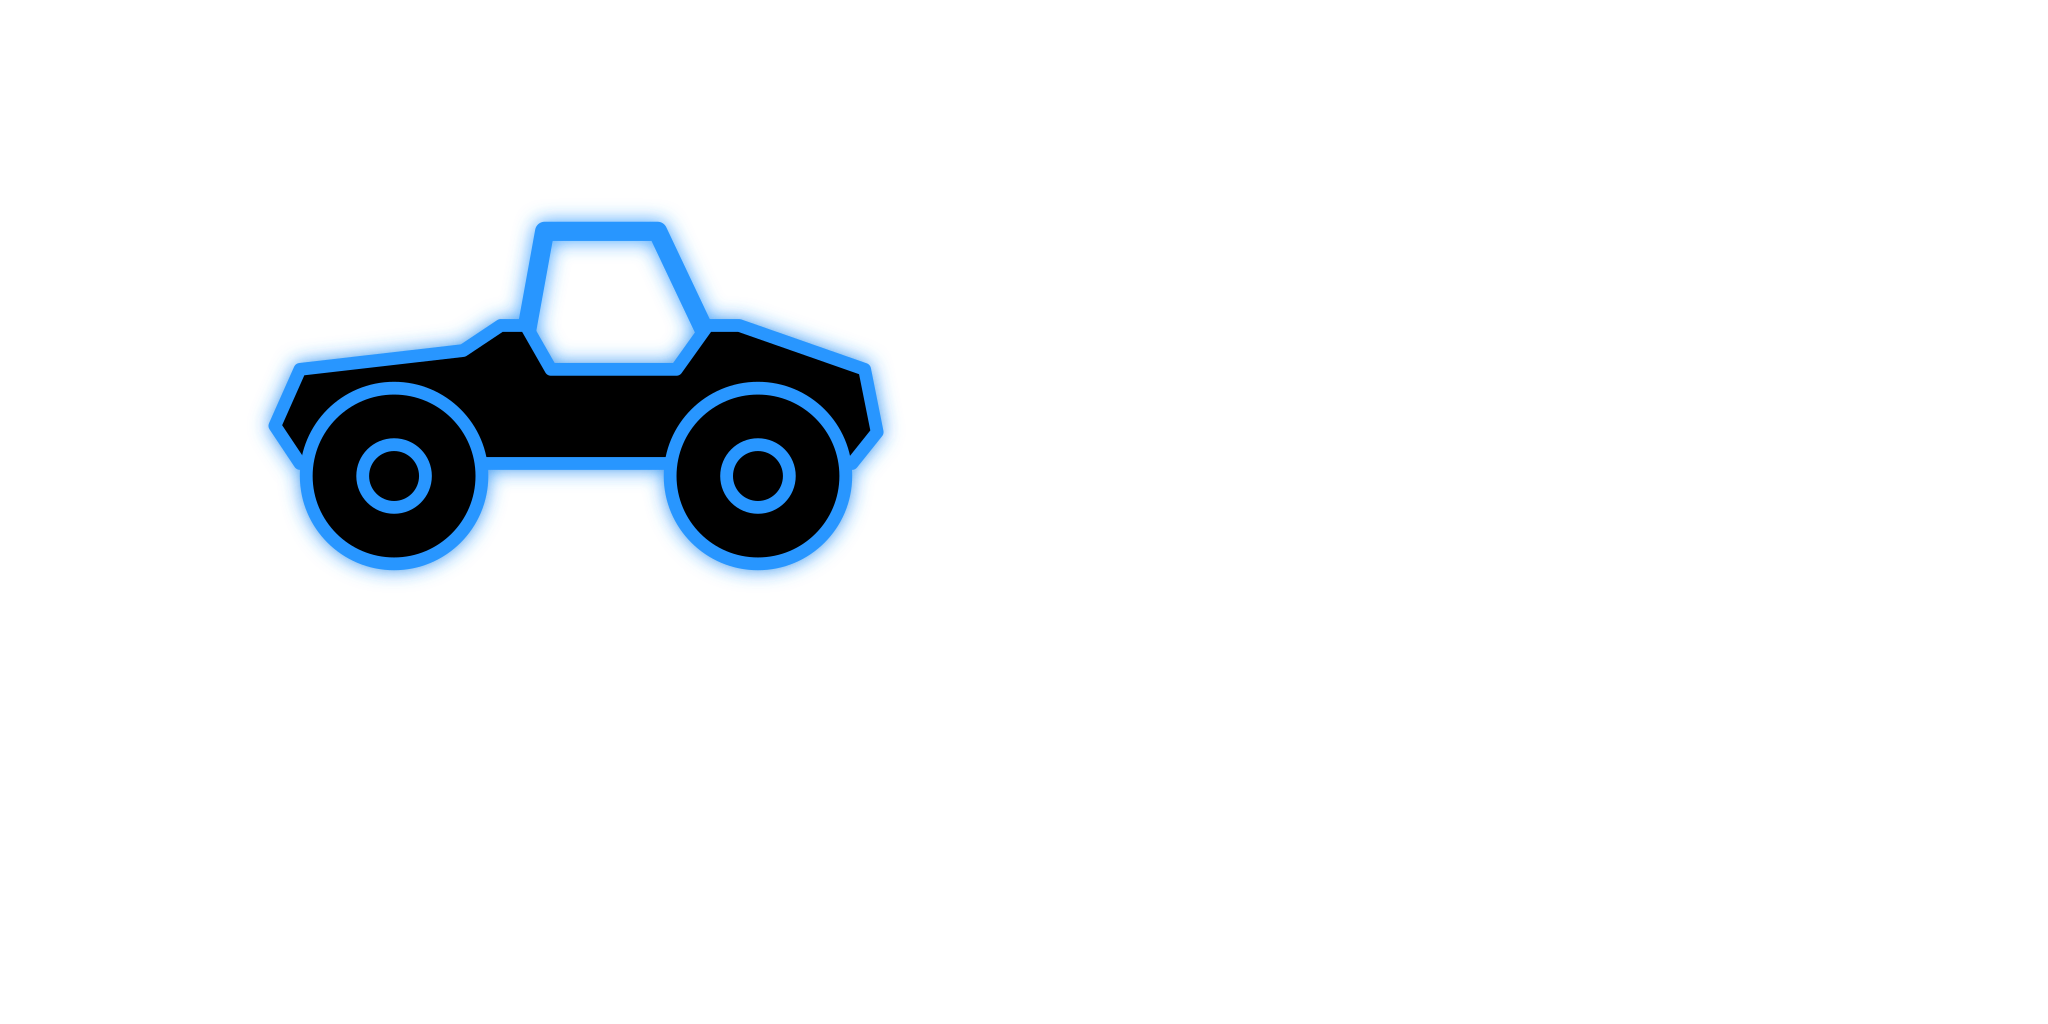
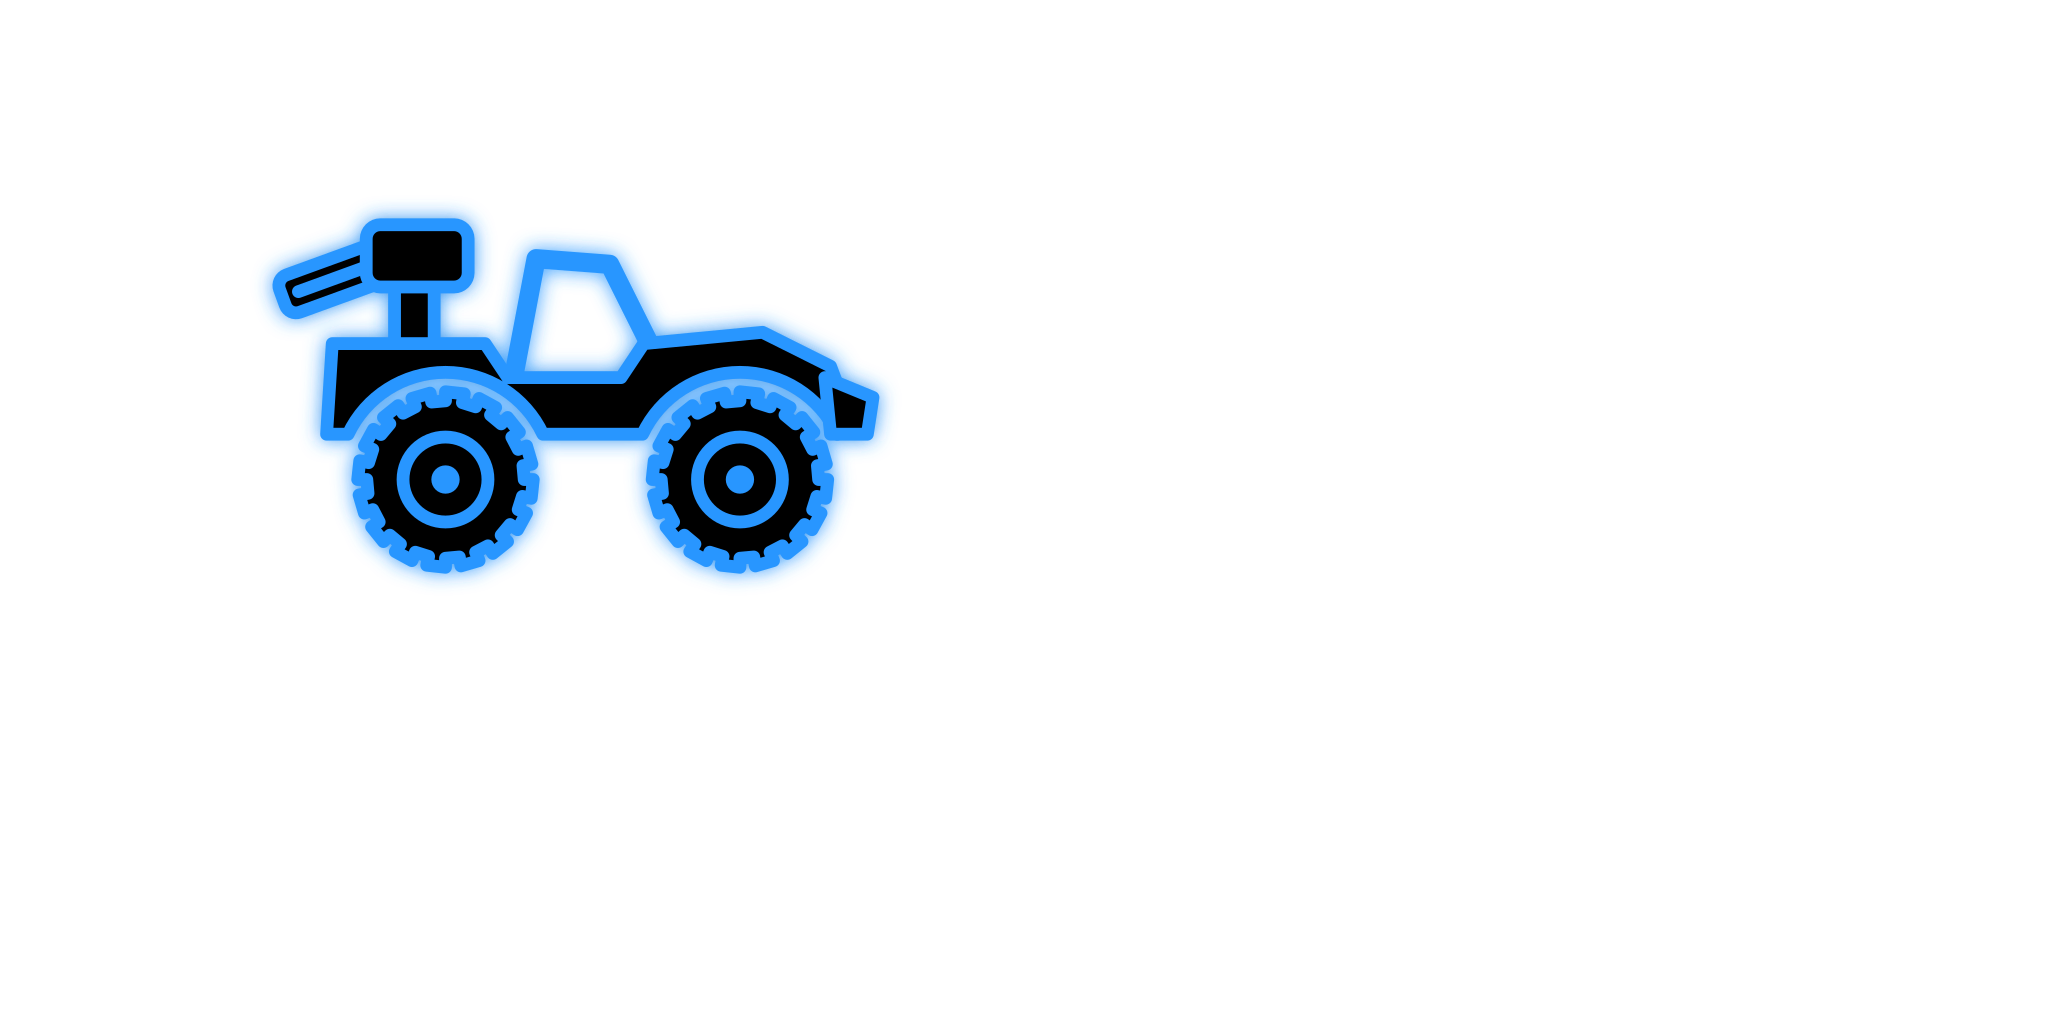
Menu pictures: a Warthog for VEHICLE OPTIONS, CTF flags for TEAMPLAY OPTIONS
- VEHICLE OPTIONS is now a Halo CE Warthog from the side, drawn here, not traced. Owner: the buggy "doesn't look
  close to a halo warthog". It has:
  - big knobby tyres in deep wheel arches;
  - a long low hood dropping to an angular nose and its forward bumper;
  - the open cab under its roll cage;
  - the chain gun on its post on the rear deck, its barrel pointing back.
- TEAMPLAY OPTIONS shows a red and a blue CTF flag, crossed: a pole and a rectangular banner in each team's own red
  and blue, a knob on top. They replace the two shields (owner: they "don't really do it for me").
- New style classes red-fill and blue-fill carry the team colours, so every SVG's style block changes; the other
  pictures render the same.

Changed region(s): [[0.125, 0.1875, 0.4375, 0.5625]]

diff --git a/tools/ae_menu_pictures.py b/tools/ae_menu_pictures.py
@@ -142,11 +142,30 @@ def _split(name, cells, frame=(4, 8, 92, 72), k=0.5, top=7.2):
     return shapes + ["</g>", f'<rect x="{x}" y="{y}" width="{w}" height="{h}" rx="3" class="e"/>']
 
 
-def _shield(cx, cy, w, h, cls):
-    outline = (f"M{cx},{cy - h / 2} L{cx + w / 2},{cy - h / 2 + h * 0.18} L{cx + w / 2},{cy + h * 0.05} "
-               f"Q{cx + w / 2},{cy + h * 0.35} {cx},{cy + h / 2} Q{cx - w / 2},{cy + h * 0.35} {cx - w / 2},{cy + h * 0.05} "
-               f"L{cx - w / 2},{cy - h / 2 + h * 0.18} Z")
-    return [f'<path d="{outline}" class="{cls}"/>']
+def _tyre(cx, cy, r, knobs=16, depth=1.6):
+    """a chunky off-road tyre's side: its tread a ring of square knobs (an even number, each a little over half its
+    pitch), its rim and hub inside"""
+    points = []
+    for i in range(knobs):
+        a0 = 2 * math.pi * i / knobs
+        a1, a2 = a0 + 2 * math.pi / knobs * 0.55, a0 + 2 * math.pi / knobs
+        for angle, radius in ((a0, r), (a1, r), (a1, r - depth), (a2, r - depth)):
+            points.append(f"{cx + radius * math.cos(angle):.2f},{cy + radius * math.sin(angle):.2f}")
+    return [f'<polygon points="{" ".join(points)}" class="b"/>', f'<circle cx="{cx}" cy="{cy}" r="7.5" class="l"/>',
+            f'<circle cx="{cx}" cy="{cy}" r="2.5" class="f"/>']
+
+
+def _flag(cross, lean, red):
+    """a CTF flag: a pole and its rectangular banner in the team's colour, a knob on top; the pole passes through
+    `cross` leaning `lean` degrees, its banner flying out on the side it leans to (a slight ripple, no flourish)"""
+    team, w = ("red", -34) if red else ("blue", 34)
+    banner = (f"M0,-54 Q{w * 0.25:.1f},-56.5 {w * 0.5:.1f},-54 Q{w * 0.75:.1f},-51.5 {w},-54 V-24 "
+              f"Q{w * 0.75:.1f},-21.5 {w * 0.5:.1f},-24 Q{w * 0.25:.1f},-26.5 0,-24 Z")
+    edge = " red" if red else ""
+    return [f'<g transform="translate({cross[0]} {cross[1]}) rotate({lean})">',
+            f'<path d="{banner}" class="b{edge} {team}-fill"/>',
+            f'<line x1="0" y1="-55" x2="0" y2="20" class="w{edge}"/>',
+            f'<circle cx="0" cy="-57" r="3.2" class="f {team}-fill"/>', "</g>"]
 
 
 def _octagon(cx, cy, r, cls):
@@ -177,12 +196,15 @@ def _pencil(tip, toward, length, width):
             f'<path d="M{at(length - 9, 1)} L{at(length - 9, -1)}" class="l"/>']
 
 
+# the Warthog's wheel arches (radius 19 about its wheels at x 24 and 76, y 68) where they meet its body's floor at y 60
+_ARCH = tuple(cx + side * math.sqrt(19 ** 2 - 8 ** 2) for cx in (24, 76) for side in (-1, 1))
+
 # each entry's drawing, in a 100 by 100 box (class b: black with the blue edge, as the game's own icons; l: a fine
 # blue line, the edge's weight; w: a heavy one; f: blue filled; arc: a countdown's band; e: an edge alone, drawn
-# again over what was clipped to it; red: the red team's edge). Drawn back to front so a part that meets another
-# tucks under its edge (no round cap or seam shows at a join). One grammar across the Multiplayer screen: a JOIN row
-# never shows a host; a CREATE row shows the host (a rack) broadcasting (arcs); the medium says where: the globe the
-# Internet, a cabled switch the LAN, a chain link a direct invite.
+# again over what was clipped to it; red: the red team's edge; red-fill, blue-fill: a team's colour filled). Drawn
+# back to front so a part that meets another tucks under its edge (no round cap or seam shows at a join). One grammar
+# across the Multiplayer screen: a JOIN row never shows a host; a CREATE row shows the host (a rack) broadcasting
+# (arcs); the medium says where: the globe the Internet, a cabled switch the LAN, a chain link a direct invite.
 MULTIPLAYER_ICONS = [
     # SERVER BROWSER: a list of games (a signal for each) searched with a lens; three rows, every one whole (the
     # lens sits below the short last row, over the window's corner)
@@ -249,16 +271,21 @@ GAMETYPE_ICONS = {
     3: ("items", [s for x in (6, 22, 38) for s in _cartridge(x, 12, 30, 86)] +
         ['<circle cx="63" cy="41" r="4.5" class="l"/>', '<path d="M82,40 Q92,40 88,52" class="w"/>',
          '<rect x="67" y="36" width="16" height="11" rx="2" class="b"/>', '<circle cx="75" cy="64" r="20" class="b"/>']),
-    # VEHICLE OPTIONS: a plain open-top off-road buggy from the side, its roll bar over the open cockpit (the
-    # tub dips there, so the bar does not close into a cab's roof; its feet tuck under the tub)
-    4: ("vehicles", ['<path d="M41,47 L45,25 H63 L72,44" class="w"/>',
-                     '<path d="M2,56 L6,47 L32,44 L38,40 H42 L46,47 H66 L71,40 H76 L96,47 L98,57 L94,62 H6 Z" '
-                     'class="b"/>',
-                     '<circle cx="21" cy="64" r="14" class="b"/>', '<circle cx="79" cy="64" r="14" class="b"/>',
-                     '<circle cx="21" cy="64" r="5" class="l"/>', '<circle cx="79" cy="64" r="5" class="l"/>']),
-    # TEAMPLAY OPTIONS: a red and a blue shield, plain; each one's inner line the same 7.5 in from its edge all round
-    6: ("teams", _shield(34, 50, 50, 72, "b red") + _shield(34, 50, 35, 55.5, "l red") +
-        _shield(66, 50, 50, 72, "b") + _shield(66, 50, 35, 55.5, "l")),
+    # VEHICLE OPTIONS: a Halo CE Warthog from the side, nose to the right (owner 10-18: true to the source, not a
+    # buggy): big knobby tyres in deep wheel arches, a long low hood dropping to an angular nose and its forward
+    # bumper, the open cab under its roll bar, and the chain gun on its post on the rear deck, its barrel pointing
+    # back (the post, the barrel and the roll bar's feet tuck under what they meet)
+    4: ("vehicles", ['<rect x="15" y="32" width="7" height="16" class="b"/>',
+                     '<g transform="translate(14 29) rotate(160)"><rect x="0" y="-3.5" width="20" height="7" rx="2" '
+                     'class="b"/><line x1="4" y1="0" x2="17" y2="0" class="l"/></g>',
+                     '<rect x="10" y="23" width="18" height="11" rx="2.5" class="b"/>',
+                     '<path d="M36,50 L40,29 L53,30 L61,46" class="w"/>',
+                     f'<path d="M3,60 L4,44 H31 L35,50 H55 L59,44 L80,42 L92,48 L95,56 L{_ARCH[3]:.1f},60 '
+                     f'A19,19 0 0 0 {_ARCH[2]:.1f},60 H{_ARCH[1]:.1f} A19,19 0 0 0 {_ARCH[0]:.1f},60 Z" class="b"/>',
+                     '<path d="M91,50 L99.5,53.5 L98.5,60 L92,60 Z" class="b"/>'] +
+        _tyre(24, 68, 15.5) + _tyre(76, 68, 15.5)),
+    # TEAMPLAY OPTIONS: a red and a blue CTF flag, crossed (the blue pole over the red), in the teams' colours
+    6: ("teams", _flag((50, 62), -22, True) + _flag((50, 62), 22, False)),
     # ARENA OPTIONS: the arena's walls and a trophy in them: the competitive rules (the handles and the stem tuck
     # under the cup, the cup's foot round, clear of the inner wall)
     7: ("arena", _octagon(50, 50, 46, "b") + _octagon(50, 50, 38, "l") +
@@ -289,8 +316,8 @@ INK = {
     "edit_gametypes": (3.9, 8.9, 102.1, 93.6),
     "name": (2.9, 23.9, 103.8, 85.1),
     "items": (4.9, 28.9, 96.1, 87.1),
-    "vehicles": (0.9, 23.4, 99.1, 79.1),
-    "teams": (7.9, 12.9, 92.1, 87.1),
+    "vehicles": (-6.5, 21.9, 100.6, 84.6),
+    "teams": (-2.9, 5.9, 102.9, 82.1),
     "arena": (6.4, 6.4, 93.6, 93.6),
     "nhe": (9.9, 2.9, 90.1, 96.1),
 }
@@ -304,7 +331,8 @@ def style(scale: float) -> str:
             f".w {{ fill:none; stroke:{BLUE}; stroke-width:{heavy:.3f}; stroke-linecap:round; stroke-linejoin:round }}\n"
             f".e {{ fill:none; stroke:{BLUE}; stroke-width:{edge:.3f}; stroke-linejoin:round }}\n"
             f".arc {{ fill:none; stroke:{BLUE}; stroke-width:{arc:.3f} }}\n"
-            f".f {{ fill:{BLUE}; stroke:none }}\n.red {{ stroke:{RED} }}\n</style>")
+            f".f {{ fill:{BLUE}; stroke:none }}\n.red {{ stroke:{RED} }}\n"
+            f".red-fill {{ fill:{RED} }}\n.blue-fill {{ fill:{BLUE} }}\n</style>")
 
 
 def _split_defs(shapes):
